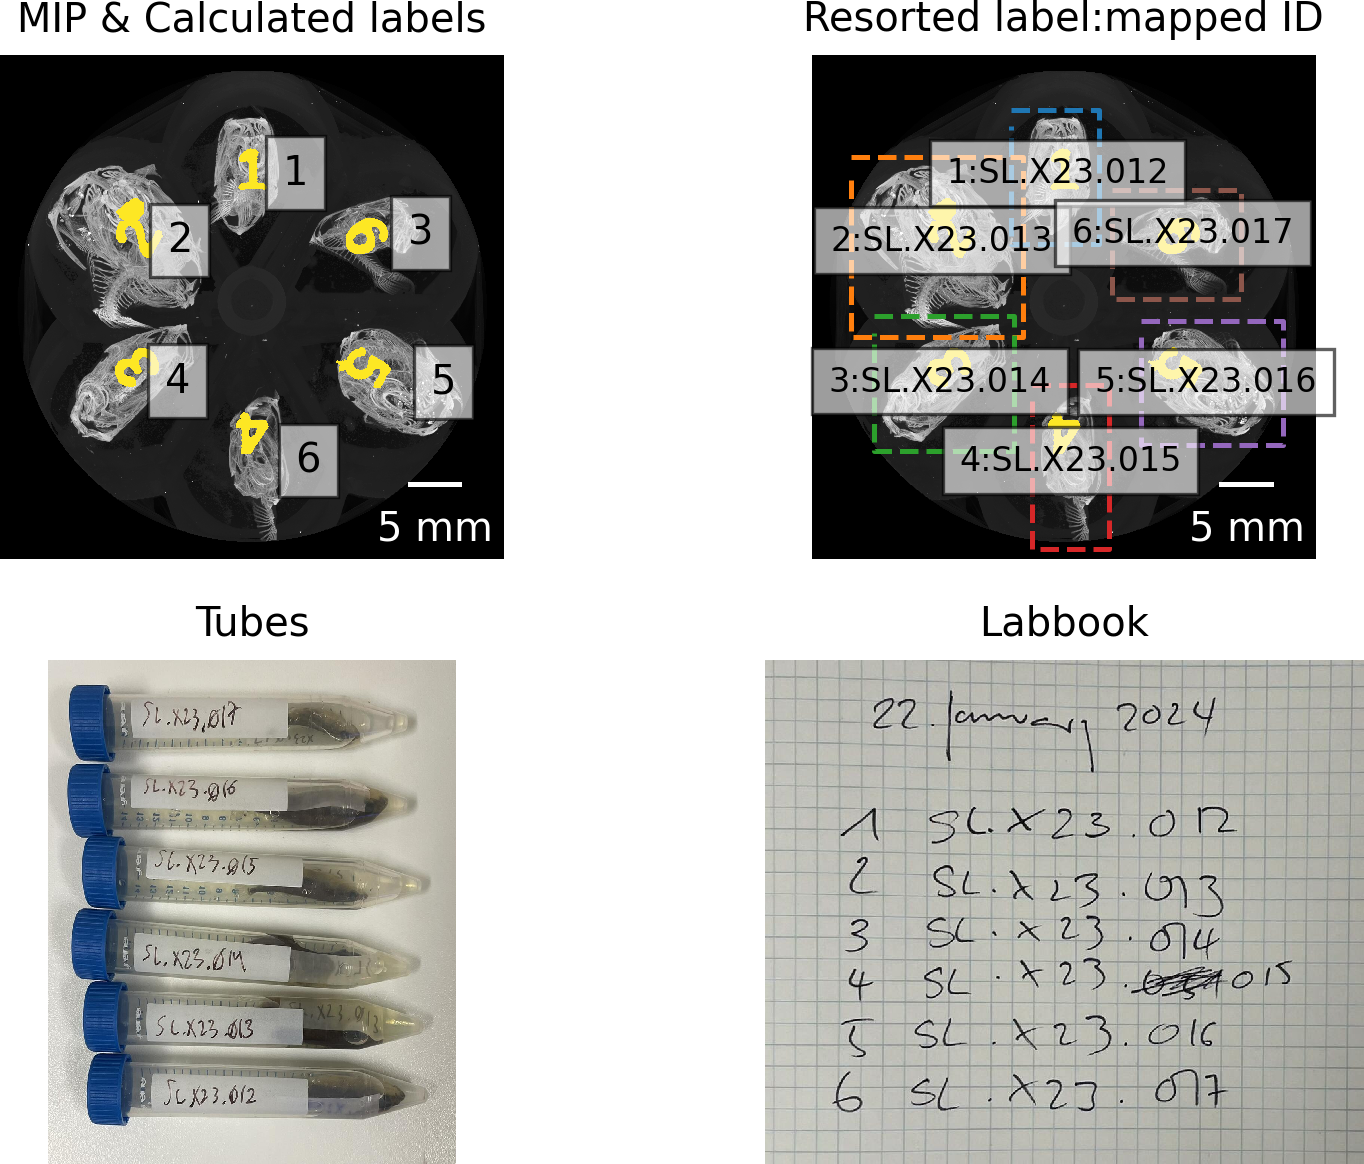
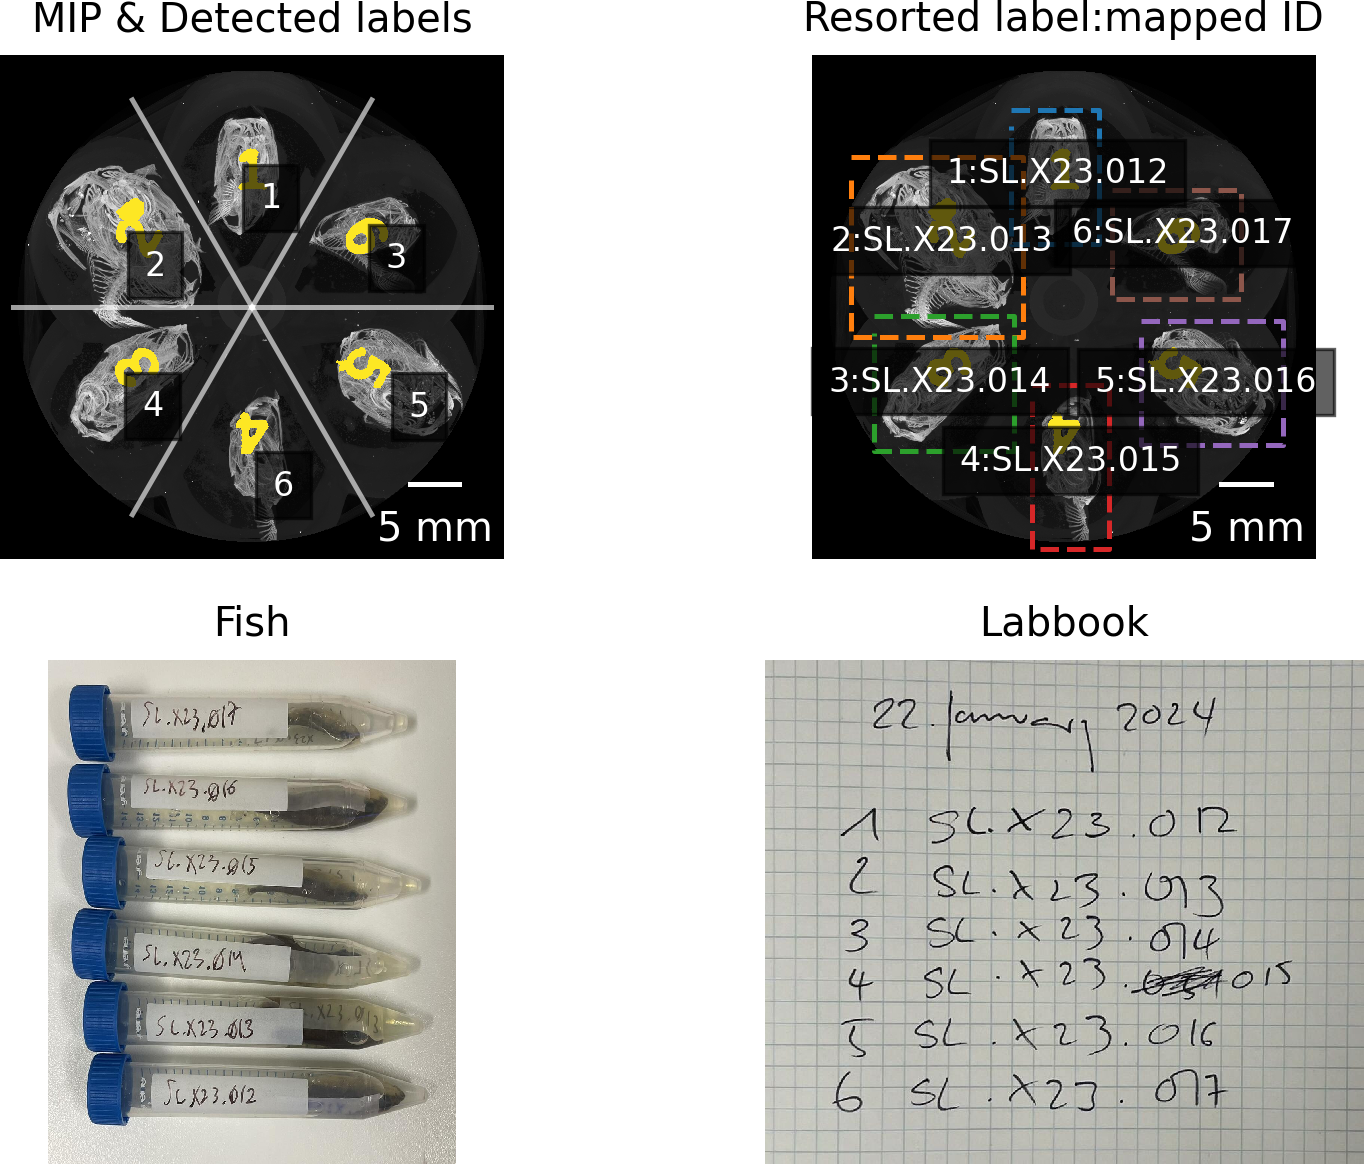
Change resorting of labels to radial
Add explanation of how we did it.
Thanks to the reviewer for noticing this, as it's been a pain point, now
nicely changed.
This makes the label assignment now truly automated.

Fixes #61

diff --git a/submission/02_revision01/answer.md b/submission/02_revision01/answer.md
@@ -127,9 +127,8 @@ As a consequence, this also means that one extracted region could contain a smal
 > Is that correct.
 > Were they assigned manually to the correct fish ID (which I assume are the yellow numbers)?
 
-#61
-Your assumption is mostly correct, the labels in the black circles are the ones assigned by `skimage.label`.
-The yellow numbers in the left panel of the Fig. 4--6 (and red ones in Fig. 2) are the ones "imprinted" on the sample holder by the 3D printer, simply highlighted on this image in yellow, by a step in our script (not described in detail in the manuscript).
+Your assumption is correct, the labels in the black circles are the ones assigned by `skimage.label` in raster order from top left to bottom right.
+The yellow numbers in the left panel of the Fig. 4--6 (and the ones that were red in in Fig. 2 (now yellow, too)) are the ones "imprinted" on the sample holder by the 3D printer, simply highlighted on this image by a step in our script (not described in detail in the manuscript).
 Assignment/Matching of compartment number to detected label to fish ID was performed manually on the first half of the scans and performed in the script for the second half of the scans.
 The matching for the second half of the scans was performed by writing a small text file matching compartment number to fish ID, where the script then read this file.
 We tried to improve the explanation in the manuscript text, but deliberately left out how the mapping is performed exactly to now over-complicate the explanation.
@@ -305,10 +304,36 @@ In all honesty, we still believe that *no* beam hardening correction was necessa
 > The calculated labels do not fit the sample holder labels in every 38 scans, and the labelling is different w.r.t the sizes of the fishes within their petal.
 > When reviewing the notebook code, it appears that each list has been manually edited in the reorder_list function.
 
+This is a personal pain point of the first author of this manuscript.
+We thank the reviewer for this careful review of our code, which correctly identified this weak spot of our pipeline.
+For the two pairs of laterally adjacent compartments (2/6 and 3/5), which of the two fish is detected first depends on the exact position of each fish within its compartment and on the slight tilt of the sample holder in the scanner.
+In practice, four different orderings occurred across the six-fish scans, which we had corrected by manually supplying the order for each scan.
+
+The 3D printed holder has the labels arranged circularly around the center, while the detection of the regions with `skimage.measure.label` numbers the detected regions in raster order, i.e. according to the top-most pixel of each region in the axial MIP.
+The allocation you mention here is not wrong *per se*, but differing between the printed labels and detected labels.
+This led to a manual editing of the resorting order, since 13 bucket regions are detected in the default order, 9 are detected in another specific order and 15 are detected in an order where either NW--NE and/or SW--SE regions are swapped.
+
 > The statement that the extraction process is fully automatic and reproductible does not hold.
 > The authors should comment on that error and how to correct the labels efficiently.
 > In my opinion, the way it is handled now makes the pipeline flawed.
 > As a manual reordering of the labels is needed anyway, the authors should acknowledge it and come up with a cleaner way to let the operator assign the labels within the notebook.
+
+Up to your comment we honestly didn't put too much thought into the discrepancy with writing "fully automatic" and "manual double-checking and resorting", since all the scans were performed over a period of 1.5 years (!).
+The first batch of fish was scanned from 2023-11-10 to 2024-03-27, where also most of the notebooks were written.
+The second batch was scanned from 2025-04-08 to 2025-06-18, and added scan-wise to the notebooks.
+Once all the resorting cells in the notebook were written, a re-run of the notebook always reproducibly produced the identical output, hence we laid a lot of weight onto the automatic process and discarded the manual work for double-checking (and potential manual resorting) for each new scan.
+
+Following the reviewer's suggestion, we replaced this manual step with a deterministic assignment and thus greatly improved both the reproducibility and quality of our code.
+We are thankful for this suggestion of the reviewer, as the ideas presented in the code here are being used in other follow-up projects and make these more robust, too.
+
+Each detected region is now assigned to a compartment based on the angle of the regions centroid around the rotation axis of the scan, which closely mathces the center of the radially symmetric 3D-printed sample holder.
+The function flags scans where two regions are assigned to the same compartment or where a region deviates considerably from the nominal direction of its compartment, and it writes a control image showing the assigned compartment number of each region.
+Applied to all the scan again, this automatic assignment reproduces the manually corrected order as before, so *none* of the extracted datasets or the downstream analyses change.
+The notebook has been updated in the repository, which is still accessible anonymized and linked in the manuscript..
+
+The only remaining manual input is the mapping from compartment number to fish ID.
+This is noted while preparing the specimen for scanning (photographically and in a text note on disk) and is read by the notebook from a small text file per scan.
+We have rephrased the corresponding paragraphs in the Materials & Methods and Results sections and no longer describe the extraction as "fully automatic"; instead we describe it as deterministic, with the manual input explicitly stated.
 
 > In order to validate the separation method, creating a MIP of the cropped version and comparing with the full scan MIP seems enough.
 > It is confusing to me why the authors go through a multilevel threshold that shows an interactive rendering within the notebook.
@@ -391,3 +416,6 @@ We edited the caption(s) according to the Writefull suggestion and completely re
 > Those are the expectations to rightfully claim that the pipeline is replicable and clade-agnostic as stated in the abstract.
 > The authors should consider the amount of revisions needed to achieve this statement or correct the statement with general guidelines on what would be the limitations of the pipeline (dimensions of the specimens, conservation (dry vs in solution), only vertebrates, etc.).
 > I would recommand minor revisions and a more restricted description of the taxonomic groups that the pipeline can handle in the conclusion.
+
+Since updating the assignment of detected sample region to angular region in the sample holder the whole pipeline generalizes even more to any sample holder whose compartments are arranged at known angles around the rotation axis.
+As long as the multiple specimen *centers* can be separated on the axial MIP image, their cropped regions can be extracted from the multi-specimen scan (with the detected outline of the region plus a buffer, if necessary).

diff --git a/content/03.materials_methods.md b/content/03.materials_methods.md
@@ -65,14 +65,20 @@ This approach allowed us to map *all* the reconstructions to memory and quickly 
 The [separation notebook](https://nbviewer.org/github/habi/sticklebacks/blob/main/BucketSeparator.ipynb) processes all the acquired scans to extract each individual fish from each scan that encompasses six fish in total.
 As in the preview notebook, we efficiently load all the `png`s from disk with [`dask`](https://www.dask.org/) [@dask].
 
-A connected region labeling of the previously extracted MIP images ([`skimage.measure.label`](https://scikit-image.org/docs/stable/api/skimage.measure.html#skimage.measure.label)) was used to highlight the labels in the custom-made sample holder (highlighted in yellow in the left panel of Figure @fig:labels) and to label the single fish in their compartments.
-The centroid positions and extent of individual fish in the scan ([`skimage.measure.regionprops`](https://scikit-image.org/docs/stable/api/skimage.measure.html#skimage.measure.regionprops)) (see right panel of Figure @fig:labels) were used to extract small cropped regions from the large multi-specimen dataset.
+A connected region labeling ([`skimage.measure.label`](https://scikit-image.org/docs/stable/api/skimage.measure.html#skimage.measure.label)) of the previously extracted MIP images was used to detect the single fish in their compartments  (see right panel of Figure @fig:labels).
+The 3D-printed compartment labels of the sample holder were detected in the same way and are highlighted in yellow in the left panel of Figure @fig:labels.
+Since `skimage` numbers the detected regions in raster order (top to bottom, left to right), this numbering depends on the exact position of each fish within its compartment.
+Due to a slight tilt of the sample holder in the scanner and inconsistent size of the single fish, the detected numbering does not consistently follow the 3D-printed compartment numbering.
+We thus assigned each detected region to a compartment based on the angle of its centroid ([`skimage.measure.regionprops`](https://scikit-image.org/docs/stable/api/skimage.measure.html#skimage.measure.regionprops)) around the rotation axis of the scan, which coincides with the center of the sample holder.
+Each region is assigned to the compartment with the closest nominal direction (spaced by 60°, counted anticlockwise from compartment 1); empty compartments are skipped.
+
+The bounding boxes of the individual fish in the scan (see right panel of Figure @fig:labels) were used to extract small cropped regions from the large multi-specimen dataset.
 This extraction process is fully reproducible and is tailored to the arrangement of the samples in the custom sample holder.
 
 ![Automatically detected regions based on maximum intensity projection along the rotation axis of the tomographic scan.
   The left panel shows the highlighted compartement labels as they have been 3D printed.
   The right panels shows the regions as detected by `skimage`; they are numbered consecutively from top left to bottom right.
-  Detected label numbers are mapped to the correct fish ID in the next step.](images/Sticklebucket_H.rec.Labels.Detected.png){#fig:labels}
+  These region numbers are assigned to the compartments based on their angle around the rotation axis (see text) and subsequently mapped to the fish ID.](images/Sticklebucket_H.rec.Labels.Detected.png){#fig:labels}
 
 We then mapped the labels of the detected regions to the ID numbers of the scanned fish and presented these images together with photos of the lab book and sample tubes for verification (see Figure @fig:checking).
 

diff --git a/content/04.results.md b/content/04.results.md
@@ -10,7 +10,8 @@ We acquired 403312 projections, reconstructed into a total of 154645 slices, res
 
 Our method reproducibly extracts each of the six fish scanned simultaneously in one scan.
 The custom-made sample holder aligns each fish along the vertical axis around the rotation axis of the tomographic scan.
-The extraction based on the MIP image along the rotation axis is fully automated, reproducible, and robust, since the detected fish "regions" do not overlap in the resulting image.
+The extraction based on the MIP image along the rotation axis is deterministic and reproducible.
+Thhe assignment of detected regions to compartments is computed from their position around the rotation axis, and the only manual input is the mapping of compartment number to fish ID from the lab book.
 
 The resulting image stack, containing six fish in one multi-specimen scan, creates a large output dataset that can be unwieldy to manage even for experienced users.
 Depending on the available hardware, it may not even be possible to load the resulting image stack into image processing software to manually perform the cropping.
